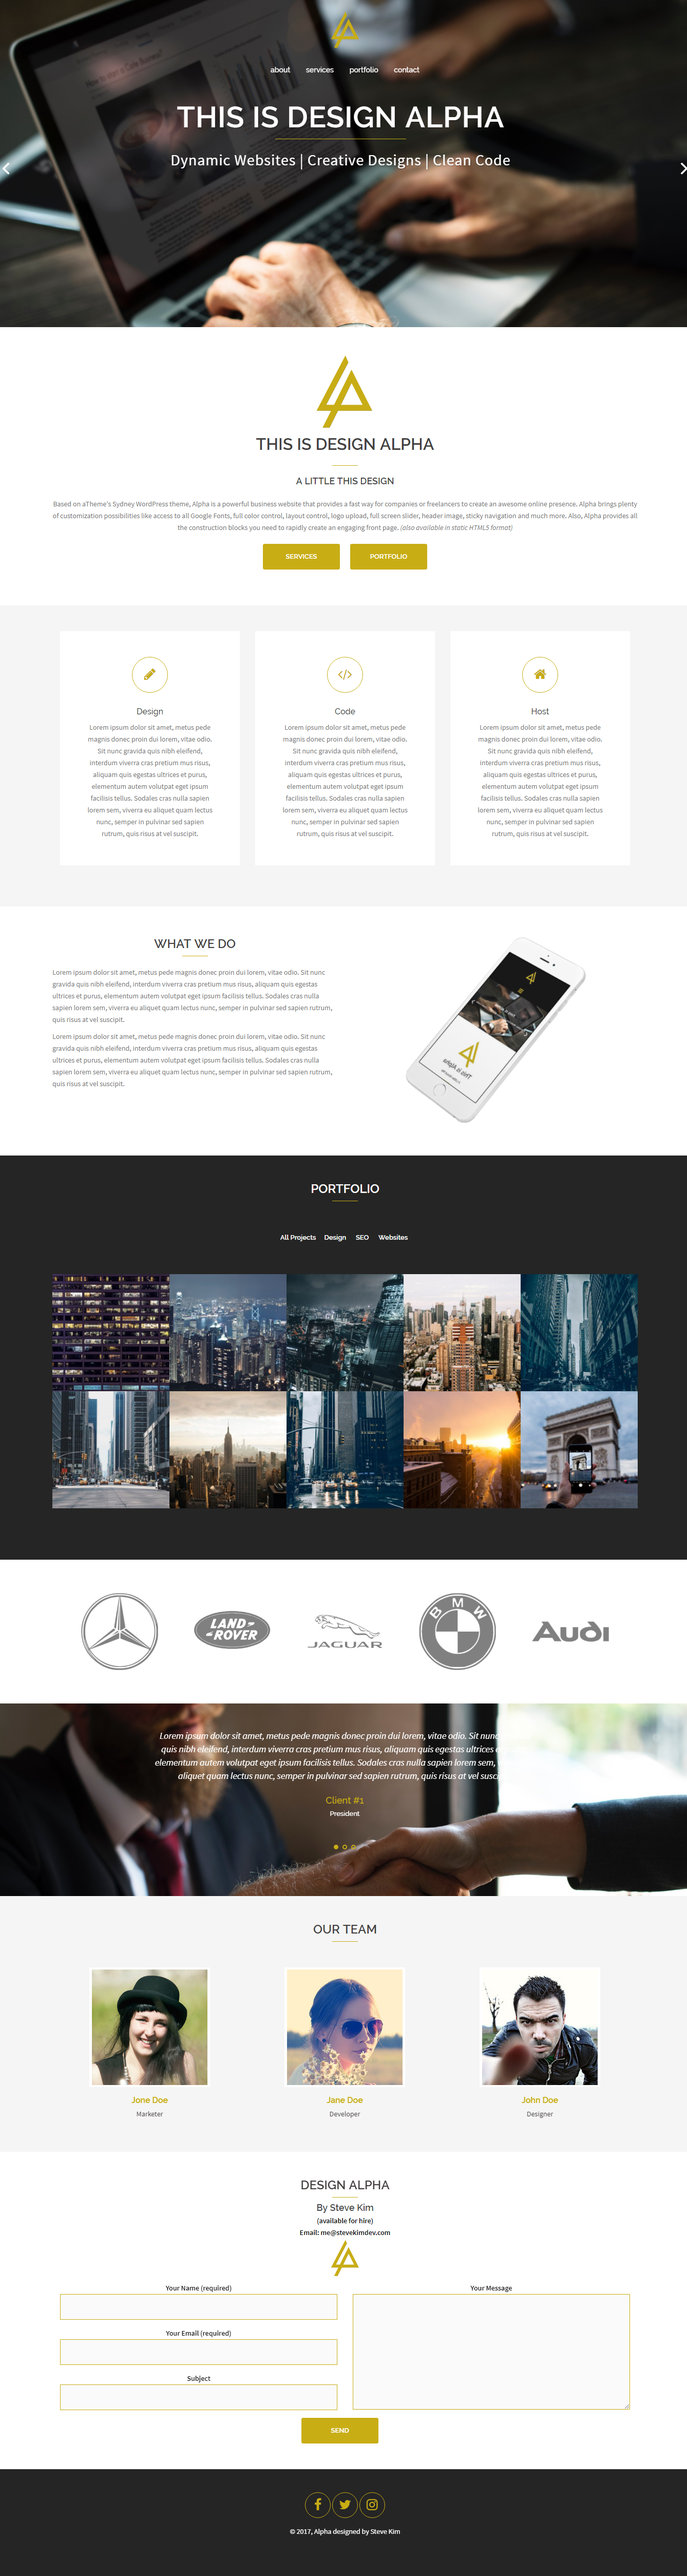
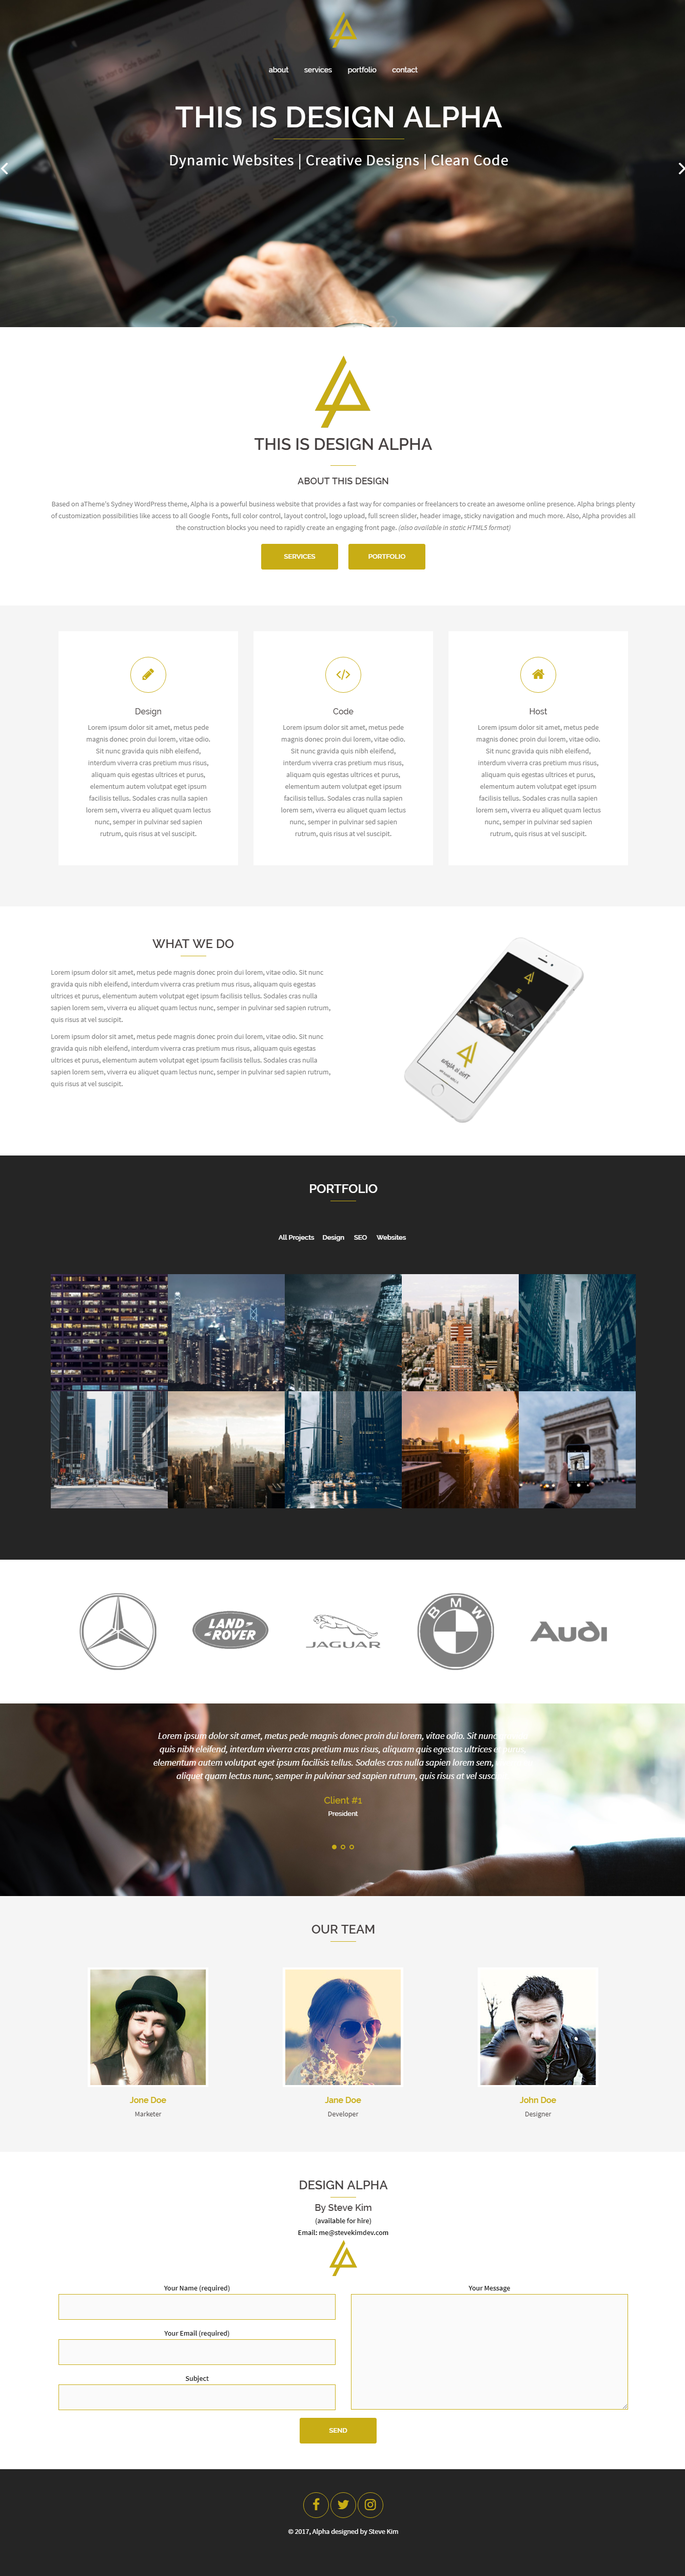
2nd Commit
image changes

diff --git a/index.html b/index.html
@@ -4,14 +4,14 @@
     <meta charset="utf-8">
     <meta http-equiv="X-UA-Compatible" content="IE=edge">
     <meta name="viewport" content="width=device-width, initial-scale=1, shrink-to-fit=no">
-    <meta name="description" content="">
-    <meta name="keywords" content="">
-    <meta name="author" content="">
+    <meta name="description" content=" I specialize in front-end web development, WordPress theme customization, and responsive design. I truly enjoy designing and developing phenomenal websites that help businesses thrive and I especially enjoy a good coding challenge.">
+    <meta name="keywords" content="website design, website, design, web design">
+    <meta name="author" content="Steve Kim">
     
     <title>Website Designs by Steve Kim</title>
     
     <!-- Favicon -->
-    <link rel="shortcut icon" type="image/x-icon" href="#">
+    <link rel="shortcut icon" type="image/x-icon" href="img/favicon.ico">
     
     <!-- CSS -->
    	<!-- Latest compiled and minified CSS -->
@@ -66,10 +66,10 @@
                     <a href="#portfolioModal1" class="portfolio-link" data-toggle="modal">
                         <div class="portfolio-hover">
                             <div class="portfolio-hover-content">
-                                <img src="img/modal/alpha-150x150.png" class="img-responsive img-centered" alt="">
+                                <img src="img/modal/alpha-150x150.png" class="img-responsive img-centered" alt="Alpha">
                             </div>
                         </div>
-                        <img src="img/portfolio/alpha.png" class="img-responsive" alt="">
+                        <img src="img/portfolio/alpha.png" class="img-responsive" alt="Design Alpha">
                     </a>
                     <div class="portfolio-caption">
                         <h4>Design Alpha</h4>
@@ -82,7 +82,7 @@
                             <div class="portfolio-hover-content">
                             </div>
                         </div>
-                        <img src="img/portfolio/roundicons.png" class="img-responsive" alt="">
+                        <img src="img/portfolio/SK-background%20400x289.png" class="img-responsive" alt="Steve Kim Logo">
                     </a>
                     <div class="portfolio-caption">
                         <h4>Design Beta</h4>
@@ -95,7 +95,7 @@
                             <div class="portfolio-hover-content">
                             </div>
                         </div>
-                        <img src="img/portfolio/roundicons.png" class="img-responsive" alt="">
+                        <img src="img/portfolio/SK-background%20400x289.png" class="img-responsive" alt="Steve Kim Logo">
                     </a>
                     <div class="portfolio-caption">
                         <h4>Design Gamma</h4>
@@ -108,7 +108,7 @@
                             <div class="portfolio-hover-content">
                             </div>
                         </div>
-                        <img src="img/portfolio/roundicons.png" class="img-responsive" alt="">
+                        <img src="img/portfolio/SK-background%20400x289.png" class="img-responsive" alt="Steve Kim Logo">
                     </a>
                     <div class="portfolio-caption">
                         <h4>Design Delta</h4>
@@ -121,7 +121,7 @@
                             <div class="portfolio-hover-content">
                             </div>
                         </div>
-                        <img src="img/portfolio/roundicons.png" class="img-responsive" alt="">
+                        <img src="img/portfolio/SK-background%20400x289.png" class="img-responsive" alt="Steve Kim Logo">
                     </a>
                     <div class="portfolio-caption">
                         <h4>Design Echo</h4>
@@ -134,7 +134,7 @@
                             <div class="portfolio-hover-content">
                             </div>
                         </div>
-                        <img src="img/portfolio/roundicons.png" class="img-responsive" alt="">
+                        <img src="img/portfolio/SK-background%20400x289.png" class="img-responsive" alt="Steve Kim Logo">
                     </a>
                     <div class="portfolio-caption">
                         <h4>Design Zeta</h4>
@@ -175,7 +175,7 @@
                     <div class="col-lg-8 col-lg-offset-2">
                         <div class="modal-body">
                             <!-- Project Details Go Here -->
-							<img class="img-responsive img-centered" src="img/modal/alpha-150x150.png" alt="">
+							<img class="img-responsive img-centered" src="img/modal/alpha-150x150.png" alt="Alpha">
                             <h2>Alpha</h2>
 							<hr class="default-hr">
                             <p class="item-intro text-muted">A customized Wordpress theme that you can easily make your own.</p>
@@ -186,9 +186,9 @@
                                 <li>Contact Form 7</li>
                                 <li>Sydney Tool Box</li>
                             </ul>
-                            <img class="img-responsive img-centered" src="img/modal/alpha-layout.png" alt="">
+                            <img class="img-responsive img-centered" src="img/modal/alpha-layout.png" alt="Design Alpha Layout">
 							<p>If you would like this design for your next website, please email me at <a href="mailto:me@stevekimdev.com">me@stevekimdev.com</a>.</p>
-                            <button type="button" class="btn btn-primary" data-dismiss="modal"><i class="fa fa-times"></i> Close Project</button>
+                            <button type="button" class="btn btn-primary" data-dismiss="modal">CLOSE</button>
                         </div>
                     </div>
                 </div>
@@ -215,7 +215,7 @@
                             <img class="img-responsive img-centered" src="img/portfolio/roundicons-free.png" alt="">
                             <p><a href="http://designmodo.com/startup/?u=787">Startup Framework</a> is a website builder for professionals. Startup Framework contains components and complex blocks (PSD+HTML Bootstrap themes and templates) which can easily be integrated into almost any design. All of these components are made in the same style, and can easily be integrated into projects, allowing you to create hundreds of solutions for your future projects.</p>
                             <p>You can preview Startup Framework <a href="http://designmodo.com/startup/?u=787">here</a>.</p>
-                            <button type="button" class="btn btn-primary" data-dismiss="modal"><i class="fa fa-times"></i> Close Project</button>
+                            <button type="button" class="btn btn-primary" data-dismiss="modal">CLOSE</button>
                         </div>
                     </div>
                 </div>
@@ -243,7 +243,7 @@
                             <img class="img-responsive img-centered" src="img/portfolio/roundicons-free.png" alt="">
                             <p>Treehouse is a free PSD web template built by <a href="https://www.behance.net/MathavanJaya">Mathavan Jaya</a>. This is bright and spacious design perfect for people or startup companies looking to showcase their apps or other projects.</p>
                             <p>You can download the PSD template in this portfolio sample item at <a href="http://freebiesxpress.com/gallery/treehouse-free-psd-web-template/">FreebiesXpress.com</a>.</p>
-                            <button type="button" class="btn btn-primary" data-dismiss="modal"><i class="fa fa-times"></i> Close Project</button>
+                            <button type="button" class="btn btn-primary" data-dismiss="modal">CLOSE</button>
                         </div>
                     </div>
                 </div>
@@ -271,7 +271,7 @@
                             <img class="img-responsive img-centered" src="img/portfolio/roundicons-free.png" alt="">
                             <p>Start Bootstrap's Agency theme is based on Golden, a free PSD website template built by <a href="https://www.behance.net/MathavanJaya">Mathavan Jaya</a>. Golden is a modern and clean one page web template that was made exclusively for Best PSD Freebies. This template has a great portfolio, timeline, and meet your team sections that can be easily modified to fit your needs.</p>
                             <p>You can download the PSD template in this portfolio sample item at <a href="http://freebiesxpress.com/gallery/golden-free-one-page-web-template/">FreebiesXpress.com</a>.</p>
-                            <button type="button" class="btn btn-primary" data-dismiss="modal"><i class="fa fa-times"></i> Close Project</button>
+                            <button type="button" class="btn btn-primary" data-dismiss="modal">CLOSE</button>
                         </div>
                     </div>
                 </div>
@@ -299,7 +299,7 @@
                             <img class="img-responsive img-centered" src="img/portfolio/roundicons-free.png" alt="">
                             <p>Escape is a free PSD web template built by <a href="https://www.behance.net/MathavanJaya">Mathavan Jaya</a>. Escape is a one page web template that was designed with agencies in mind. This template is ideal for those looking for a simple one page solution to describe your business and offer your services.</p>
                             <p>You can download the PSD template in this portfolio sample item at <a href="http://freebiesxpress.com/gallery/escape-one-page-psd-web-template/">FreebiesXpress.com</a>.</p>
-                            <button type="button" class="btn btn-primary" data-dismiss="modal"><i class="fa fa-times"></i> Close Project</button>
+                            <button type="button" class="btn btn-primary" data-dismiss="modal">CLOSE</button>
                         </div>
                     </div>
                 </div>
@@ -327,7 +327,7 @@
                             <img class="img-responsive img-centered" src="img/portfolio/roundicons-free.png" alt="">
                             <p>Dreams is a free PSD web template built by <a href="https://www.behance.net/MathavanJaya">Mathavan Jaya</a>. Dreams is a modern one page web template designed for almost any purpose. It’s a beautiful template that’s designed with the Bootstrap framework in mind.</p>
                             <p>You can download the PSD template in this portfolio sample item at <a href="http://freebiesxpress.com/gallery/dreams-free-one-page-web-template/">FreebiesXpress.com</a>.</p>
-                            <button type="button" class="btn btn-primary" data-dismiss="modal"><i class="fa fa-times"></i> Close Project</button>
+                            <button type="button" class="btn btn-primary" data-dismiss="modal">CLOSE</button>
                         </div>
                     </div>
                 </div>

diff --git a/css/styles.css b/css/styles.css
@@ -33,11 +33,25 @@ h6 {
 .navbar-brand img {
 	width: 48px;
 	margin-top: -3px;
-	margin-left: 105px;
 }
 
-.navbar-nav {
+@media (min-width: 769px) {
+    .navbar-brand img {
+	margin-left: 105px;
+	}
+	.navbar-nav {
 	margin-right: 85px;
+	}
+}
+
+.navbar-toggle {
+	margin-top: 20px;
+	background-color: #fff;
+}
+
+.navbar-collapse {
+	background-color: #222222;
+	border: none;
 }
 
 .navbar-nav > li > a {
@@ -258,7 +272,6 @@ section h3.section-subheading {
 	border-radius: 0;
     text-transform: uppercase;
     font-weight: 700;
-	width: 150px;
 }
 
 .btn-primary:hover,
